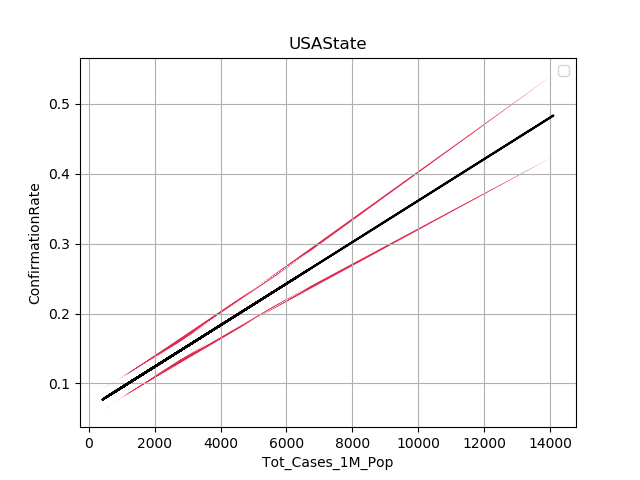
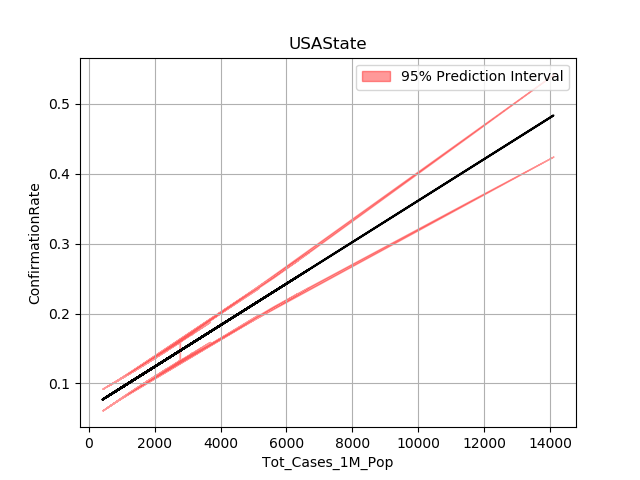
Adding Prediction interval

diff --git a/Python/Statistics/LinearRegression.py b/Python/Statistics/LinearRegression.py
@@ -57,20 +57,21 @@ class LinearRegression(LinearRegressionBase):
         if ci is None:
             ci = self.Interval(0.05)
 
-        
         plt.grid(True)
-
         plt.plot(self.X, self.y, color='black')
 
         if pred:
-            plt.fill_between(self.X, self.PI[0], self.PI[1], facecolor='OliveDrab', interpolate=True, alpha=.7)
-        else:
-            plt.fill_between(self.X, ci[0], ci[1], facecolor='Crimson', interpolate=True, alpha=.9)
+            plt.fill_between(self.X, self.PI[0], self.PI[1], color='g', alpha=.2, label='95% Credible Interval')
 
-        plt.title(self.location)
+        plt.fill_between(self.X, self.CI[0], self.CI[1], color='r', alpha=.4, label='95% Prediction Interval')
+
+        plt.title(self.title)
         plt.xlabel(self.xlabel)
         plt.ylabel(self.ylabel)
         plt.legend()
-        filename = 'CI_{}_{}'.format(self.xlabel, self.ylabel)
+        filename = 'CI'
+        if pred:
+            filename = 'PI'
+        filename += '_{}_{}'.format(self.xlabel, self.ylabel)
         plt.savefig('Figures/Interval/{}.png'.format(filename))
         plt.show()

diff --git a/Python/main.py b/Python/main.py
@@ -20,10 +20,10 @@ lr = LinearRegression(us_data["ConfirmationRate"].values, us_data["Deaths_1M_Pop
 lr.plotCredibility(lr.Interval(theta))
 lr.plotCredibility(lr.Interval(theta, 1), pred=True)
 
-lr2 = LinearRegression(us_data["Tot_Cases_1M_Pop"].values, us_data["ConfirmationRate"].values, "USAState", "Tot_Cases_1M_Pop", "ConfirmationRate")
-CI95 = lr2.Interval(theta)
-lr2.plotCredibility(CI95)
+lr = LinearRegression(us_data["Tot_Cases_1M_Pop"].values, us_data["ConfirmationRate"].values, "USAState", "Tot_Cases_1M_Pop", "ConfirmationRate")
+lr.plotCredibility(lr.Interval(theta))
+lr.plotCredibility(lr.Interval(theta, 1), pred=True)
 
-lr3 = LinearRegression(us_data["Tot_Cases_1M_Pop"].values, us_data["Deaths_1M_Pop"].values, "USAState", "Tot_Cases_1M_Pop", "Deaths_1M_Pop")
-CI95 = lr3.Interval(theta)
-lr3.plotCredibility(CI95)
+lr = LinearRegression(us_data["Tot_Cases_1M_Pop"].values, us_data["Deaths_1M_Pop"].values, "USAState", "Tot_Cases_1M_Pop", "Deaths_1M_Pop")
+lr.plotCredibility(lr.Interval(theta))
+lr.plotCredibility(lr.Interval(theta, 1), pred=True)

diff --git a/Python/Statistics/LinearRegressionBase.py b/Python/Statistics/LinearRegressionBase.py
@@ -10,7 +10,7 @@ class LinearRegressionBase:
         self.Y = Y
         self.Xmin = np.min(X)
         self.Xmax = np.max(X)
-        self.location = title
+        self.title = title
         self.n = len(X)
         Sx = sum(X)
         self.mu_x = Sx / self.n
@@ -53,7 +53,7 @@ class LinearRegressionBase:
         plt.grid(True)
         plt.plot(self.X, self.Y, 'k.', label='Scatter plot')
         plt.plot(self.X, y, label='Regression line')
-        plt.title(self.location)
+        plt.title(self.title)
         plt.xlabel(self.xlabel)
         plt.ylabel(self.ylabel)
         plt.legend()
